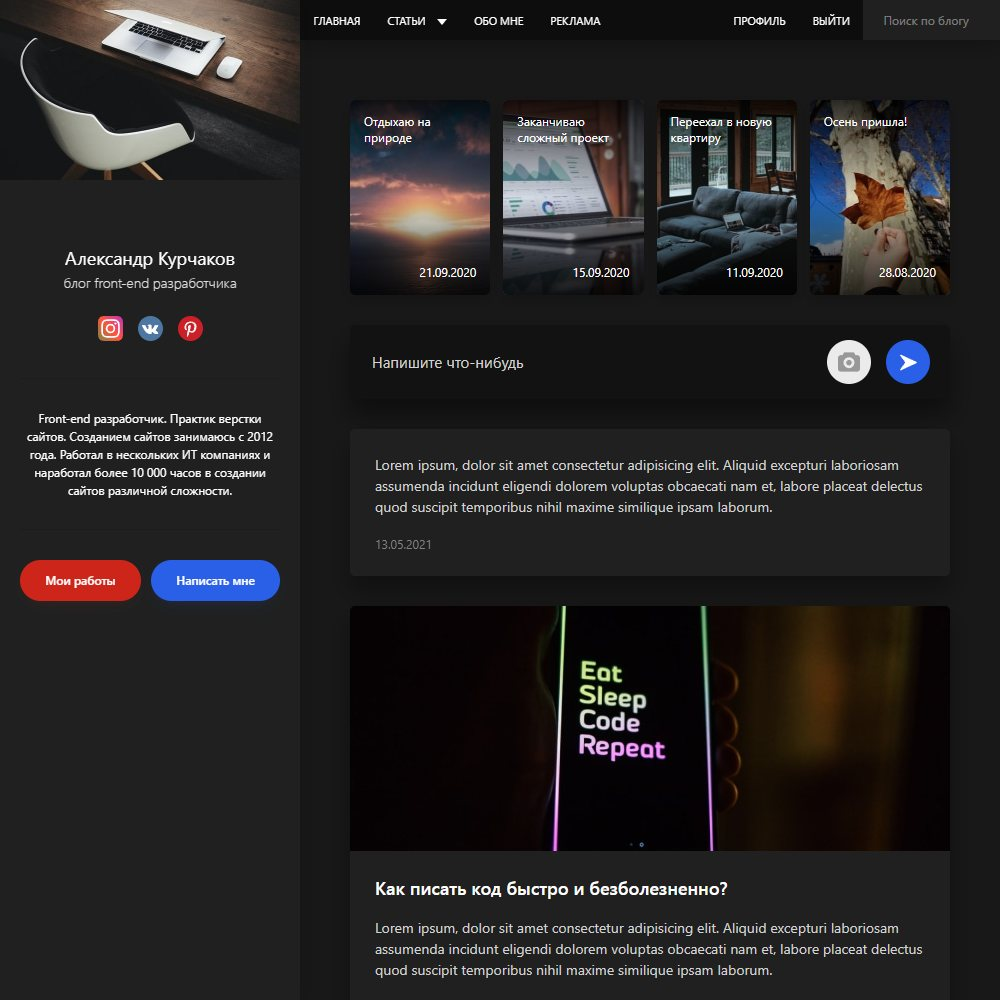
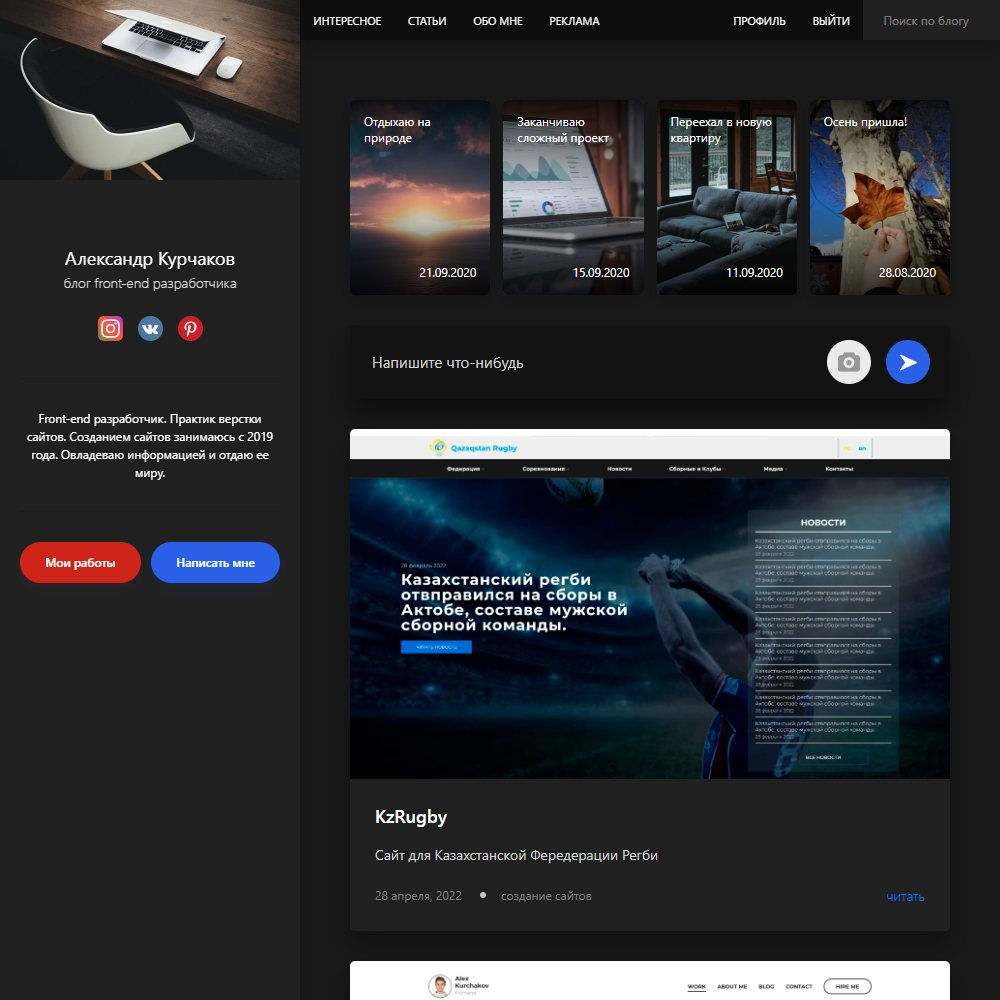
feat: живой WP-блог + Figma-дизайны + QazSoft-постеры (24 работы)
- /20 блог: превью и описание = настоящий WordPress с реальным контентом
  (реанимирован в Docker из XAMPP-базы: своя тема, посты, микроблог)
- /22 Магазин продуктов — публичные Figma-макеты (12 шт, ссылка живая)
- /23 Дизайн блога — Figma-макеты (связка дизайн→реализация с /20)
- /24 QazSoft — SMM-постеры с кубическими маскотами (из бота Baimo)
24 работы: sites 11 · design 8 · games 2 · video 2 · logo 1

diff --git a/app/data/works.ts b/app/data/works.ts
@@ -1,4 +1,4 @@
-// Типизированные данные 17 работ + фильтры. Источник истины — прежний site-markup.ts.
+// Типизированные данные 24 работ + фильтры. Источник истины — прежний site-markup.ts.
 // Переводимые строки — Localized ({ru,kz,en}); имена собственные и техтермины
 // не переводятся (helper `same`). Категории карточек (без "all") и фильтра (с "all").
 import type { Localized } from "~/lib/i18n";
@@ -658,25 +658,25 @@ export const WORKS: WorkItem[] = [
     wide: false,
     kind: "img",
     title: L(
-      "Личный блог — своя вёрстка и WordPress-тема",
-      "Жеке блог — өз вёрсткам және WordPress тақырыбы",
-      "Personal blog — custom markup & WordPress theme",
+      "Личный блог — WordPress со своей темой",
+      "Жеке блог — өз тақырыбымен WordPress",
+      "Personal blog — WordPress with a custom theme",
     ),
     tag: L(
-      "Сайты · Gulp · WordPress · 2020–2021",
-      "Сайттар · Gulp · WordPress · 2020–2021",
-      "Sites · Gulp · WordPress · 2020–2021",
+      "Сайты · WordPress · Carbon Fields · своя тема · 2020–2022",
+      "Сайттар · WordPress · Carbon Fields · өз тақырыбым · 2020–2022",
+      "Sites · WordPress · Carbon Fields · custom theme · 2020–2022",
     ),
     dot: "b",
     imgSrc: "/img/works/blog-card.jpg",
     imgAlt:
-      "Личный блог front-end разработчика: тёмная тема, посты и сторис",
+      "Личный блог — живой WordPress: лента микропостов и карточка работы KzRugby",
     imgPos: "center top",
     listTitle: L("Личный блог", "Жеке блог", "Personal blog"),
     listSub: L(
-      "блог front-end разработчика: тёмная тема, сторис · 2021",
-      "front-end әзірлеушісінің блогы: қараңғы тақырып, сторис · 2021",
-      "front-end developer blog: dark theme, stories · 2021",
+      "живой WordPress-блог: своя тема, посты, микроблог · 2020–2022",
+      "тірі WordPress-блог: өз тақырыбым, посттар, микроблог · 2020–2022",
+      "live WordPress blog: custom theme, posts, microblog · 2020–2022",
     ),
     listCat: CAT_SITES,
   },
@@ -705,6 +705,102 @@ export const WORKS: WorkItem[] = [
       "продающие карточки товаров: аэрогрили, стайлер, пылесос · 2025",
       "сатушы тауар карточкалары: аэрогрильдер, стайлер, шаңсорғыш · 2025",
       "selling product cards: air fryers, styler, vacuum cleaner · 2025",
+    ),
+    listCat: CAT_DESIGN,
+  },
+  {
+    index: "/22",
+    cat: "design",
+    wide: true,
+    kind: "img",
+    title: L(
+      "Магазин продуктов — дизайн в Figma",
+      "Азық-түлік дүкені — Figma-дағы дизайн",
+      "Grocery store — Figma design",
+    ),
+    tag: L(
+      "Дизайн · Figma · e-commerce · 12 макетов · доставка по Алматы · 2021",
+      "Дизайн · Figma · e-commerce · 12 макет · Алматы бойынша жеткізу · 2021",
+      "Design · Figma · e-commerce · 12 mockups · delivery in Almaty · 2021",
+    ),
+    dot: "f",
+    imgSrc: "/img/works/figma-shop-card.jpg",
+    imgAlt:
+      "Магазин продуктов — Figma-макеты интернет-магазина с доставкой по Алматы: главная и каталог",
+    imgPos: "center top",
+    linkHref: "https://www.figma.com/file/sgvVY4bqYlDKaKsvTLjVzv",
+    linkAria: L(
+      "Открыть макеты магазина в Figma",
+      "Дүкен макеттерін Figma-да ашу",
+      "Open the store mockups in Figma",
+    ),
+    listTitle: L("Магазин продуктов", "Азық-түлік дүкені", "Grocery store"),
+    listSub: L(
+      "UI интернет-магазина с доставкой: каталог, карточка, блог · Figma · 2021",
+      "жеткізуі бар интернет-дүкеннің UI-ы: каталог, карточка, блог · Figma · 2021",
+      "online store UI with delivery: catalog, product page, blog · Figma · 2021",
+    ),
+    listCat: CAT_DESIGN,
+  },
+  {
+    index: "/23",
+    cat: "design",
+    wide: false,
+    kind: "img",
+    title: L(
+      "Дизайн блога — Figma-макеты",
+      "Блог дизайны — Figma-макеттер",
+      "Blog design — Figma mockups",
+    ),
+    tag: L(
+      "Дизайн · Figma · 7 макетов · адаптив · 2021",
+      "Дизайн · Figma · 7 макет · адаптив · 2021",
+      "Design · Figma · 7 mockups · responsive · 2021",
+    ),
+    dot: "f",
+    imgSrc: "/img/works/figma-blog-card.jpg",
+    imgAlt:
+      "Дизайн блога — Figma-макеты личного блога (/20): тёмная главная с постами",
+    imgPos: "center top",
+    linkHref: "https://www.figma.com/file/nWDCgisHHJmbJ7ujLkFExV",
+    linkAria: L(
+      "Открыть макеты блога в Figma",
+      "Блог макеттерін Figma-да ашу",
+      "Open the blog mockups in Figma",
+    ),
+    listTitle: L("Дизайн блога", "Блог дизайны", "Blog design"),
+    listSub: L(
+      "дизайн личного блога: desktop, tablet, mobile, 404 · Figma · 2021",
+      "жеке блог дизайны: desktop, tablet, mobile, 404 · Figma · 2021",
+      "personal blog design: desktop, tablet, mobile, 404 · Figma · 2021",
+    ),
+    listCat: CAT_DESIGN,
+  },
+  {
+    index: "/24",
+    cat: "design",
+    wide: false,
+    kind: "img",
+    title: L(
+      "QazSoft — SMM-постеры с маскотами",
+      "QazSoft — маскоттары бар SMM-постерлер",
+      "QazSoft — SMM posters with mascots",
+    ),
+    tag: L(
+      "Дизайн · SMM · Instagram · маскоты · 2024",
+      "Дизайн · SMM · Instagram · маскоттар · 2024",
+      "Design · SMM · Instagram · mascots · 2024",
+    ),
+    dot: "f",
+    imgSrc: "/img/works/qazsoft-posters-card.jpg",
+    imgAlt:
+      "QazSoft — тёмный промо-постер со скидкой 10% и огненным кубическим маскотом",
+    imgPos: "center top",
+    listTitle: L("QazSoft — SMM-постеры", "QazSoft — SMM-постерлер", "QazSoft — SMM posters"),
+    listSub: L(
+      "промо-постеры студии: скидки, приветствие, кубические маскоты · 2024",
+      "студияның промо-постерлері: жеңілдіктер, сәлемдесу, кубтық маскоттар · 2024",
+      "studio promo posters: discounts, welcome, cubic mascots · 2024",
     ),
     listCat: CAT_DESIGN,
   },
